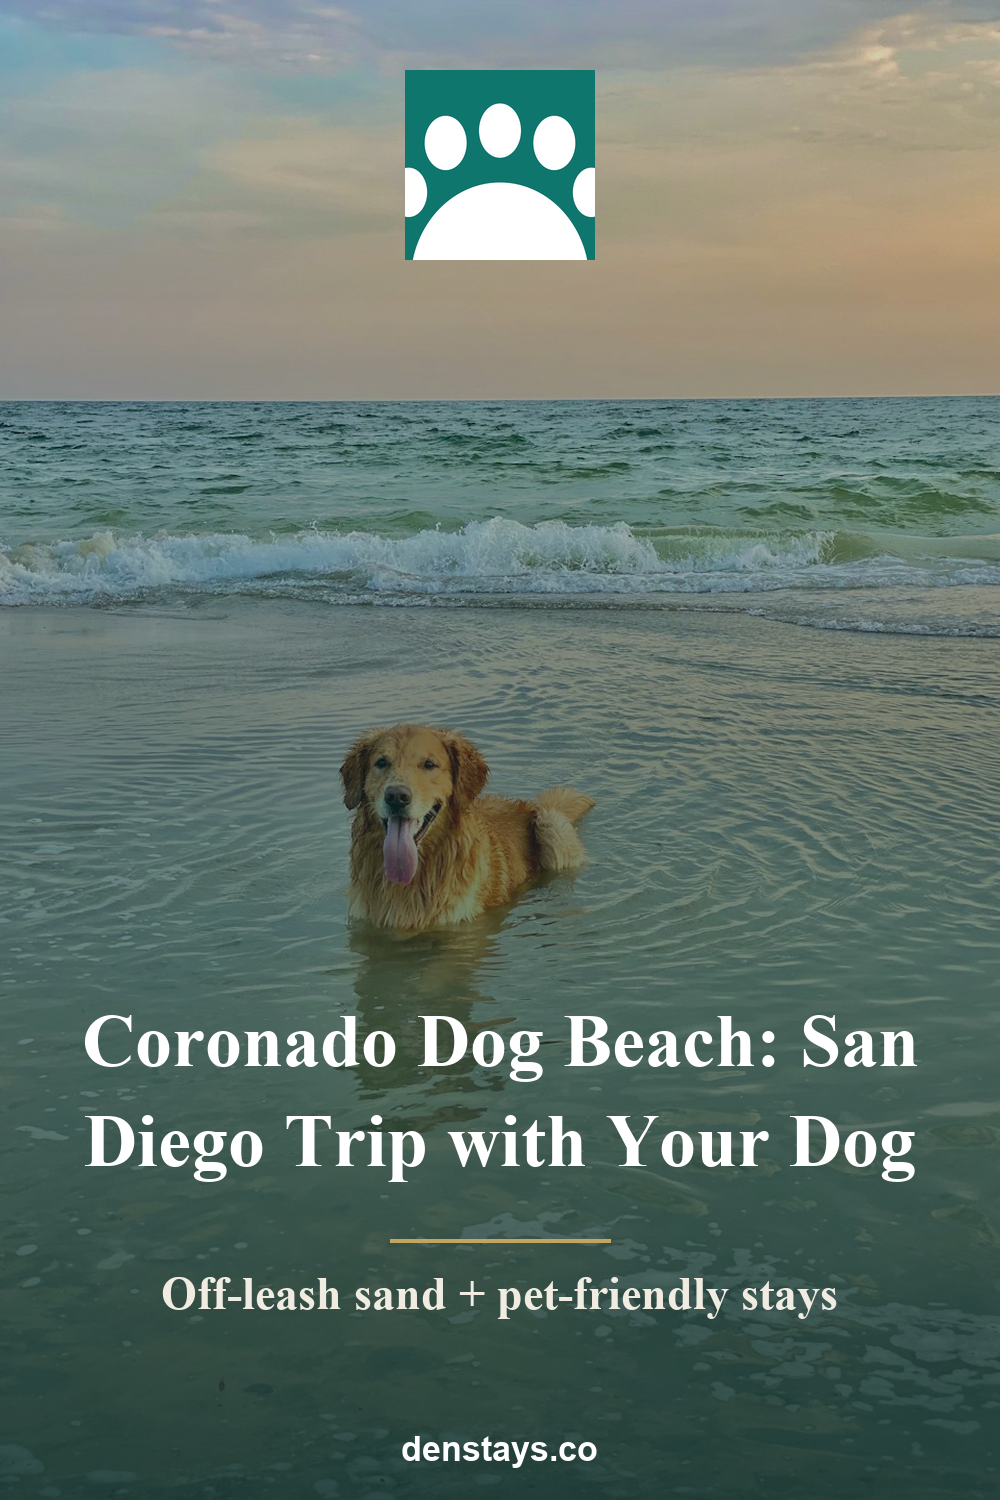
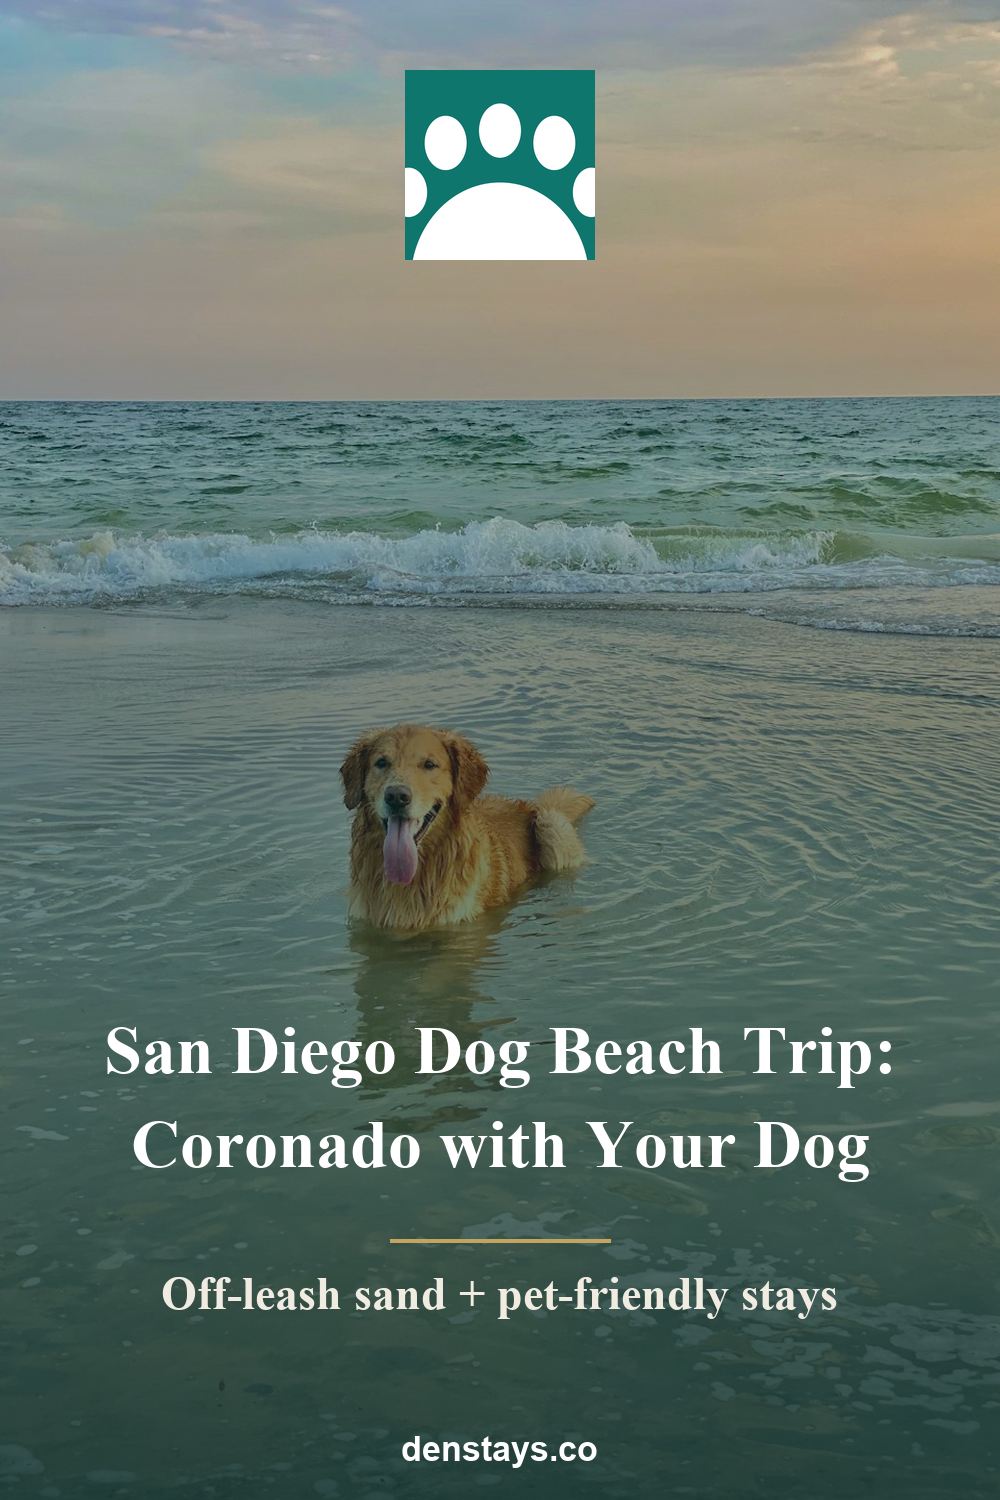
Gallery: 7 auto-approved pins (2026-11-08 batch); re-render SD headline

Changed region(s): [[0.062, 0.6747, 0.93, 0.7973]]

diff --git a/pins/index.html b/pins/index.html
@@ -1080,7 +1080,7 @@ code { font-size:12px; color:#888; }
         <div class="card">
           <img src="austin-thanksgiving-road-trip.png" alt="Thanksgiving Road Trip to Austin with Your Dog">
           <div class="meta">
-            <span class="status" style="background:#c4a560">draft</span>
+            <span class="status" style="background:#2e7d5b">ready</span>
             <span class="type">photo · holiday-road-trip</span>
             <h3>Thanksgiving Road Trip to Austin with Your Dog</h3>
             <code>austin-thanksgiving-road-trip</code>
@@ -1089,7 +1089,7 @@ code { font-size:12px; color:#888; }
         <div class="card">
           <img src="denver-no-pet-deposit.png" alt="Denver Pet-Friendly Hotels with No Pet Deposit">
           <div class="meta">
-            <span class="status" style="background:#c4a560">draft</span>
+            <span class="status" style="background:#2e7d5b">ready</span>
             <span class="type">teal · no-deposit</span>
             <h3>Denver Pet-Friendly Hotels with No Pet Deposit</h3>
             <code>denver-no-pet-deposit</code>
@@ -1098,7 +1098,7 @@ code { font-size:12px; color:#888; }
         <div class="card">
           <img src="asheville-holiday-weekend.png" alt="Holiday Weekend in Asheville with Your Dog">
           <div class="meta">
-            <span class="status" style="background:#c4a560">draft</span>
+            <span class="status" style="background:#2e7d5b">ready</span>
             <span class="type">band · holiday-weekend</span>
             <h3>Holiday Weekend in Asheville with Your Dog</h3>
             <code>asheville-holiday-weekend</code>
@@ -1107,7 +1107,7 @@ code { font-size:12px; color:#888; }
         <div class="card">
           <img src="denver-snow-day.png" alt="Snowy Denver Weekend with Your Dog">
           <div class="meta">
-            <span class="status" style="background:#c4a560">draft</span>
+            <span class="status" style="background:#2e7d5b">ready</span>
             <span class="type">photo · snow-weekend</span>
             <h3>Snowy Denver Weekend with Your Dog</h3>
             <code>denver-snow-day</code>
@@ -1116,7 +1116,7 @@ code { font-size:12px; color:#888; }
         <div class="card">
           <img src="bend-old-mill-district.png" alt="Bend's Old Mill District with Your Dog">
           <div class="meta">
-            <span class="status" style="background:#c4a560">draft</span>
+            <span class="status" style="background:#2e7d5b">ready</span>
             <span class="type">teal · neighborhood</span>
             <h3>Bend's Old Mill District with Your Dog</h3>
             <code>bend-old-mill-district</code>
@@ -1125,18 +1125,18 @@ code { font-size:12px; color:#888; }
         <div class="card">
           <img src="scottsdale-dog-parks.png" alt="Scottsdale Dog Parks + Pet-Friendly Hotels">
           <div class="meta">
-            <span class="status" style="background:#c4a560">draft</span>
+            <span class="status" style="background:#2e7d5b">ready</span>
             <span class="type">band · dog-parks</span>
             <h3>Scottsdale Dog Parks + Pet-Friendly Hotels</h3>
             <code>scottsdale-dog-parks</code>
           </div>
         </div>
         <div class="card">
-          <img src="san-diego-coronado-dog-beach.png" alt="Coronado Dog Beach: San Diego Trip with Your Dog">
+          <img src="san-diego-coronado-dog-beach.png" alt="San Diego Dog Beach Trip: Coronado with Your Dog">
           <div class="meta">
-            <span class="status" style="background:#c4a560">draft</span>
+            <span class="status" style="background:#2e7d5b">ready</span>
             <span class="type">photo · dog-beach</span>
-            <h3>Coronado Dog Beach: San Diego Trip with Your Dog</h3>
+            <h3>San Diego Dog Beach Trip: Coronado with Your Dog</h3>
             <code>san-diego-coronado-dog-beach</code>
           </div>
         </div></div>
